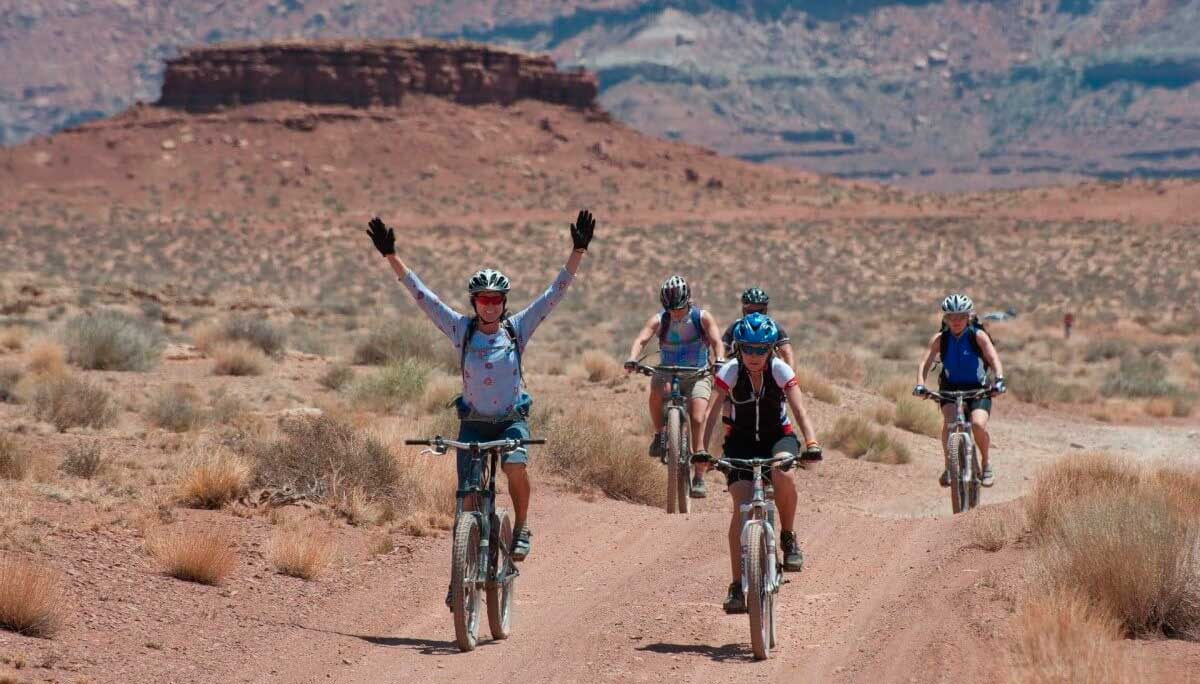
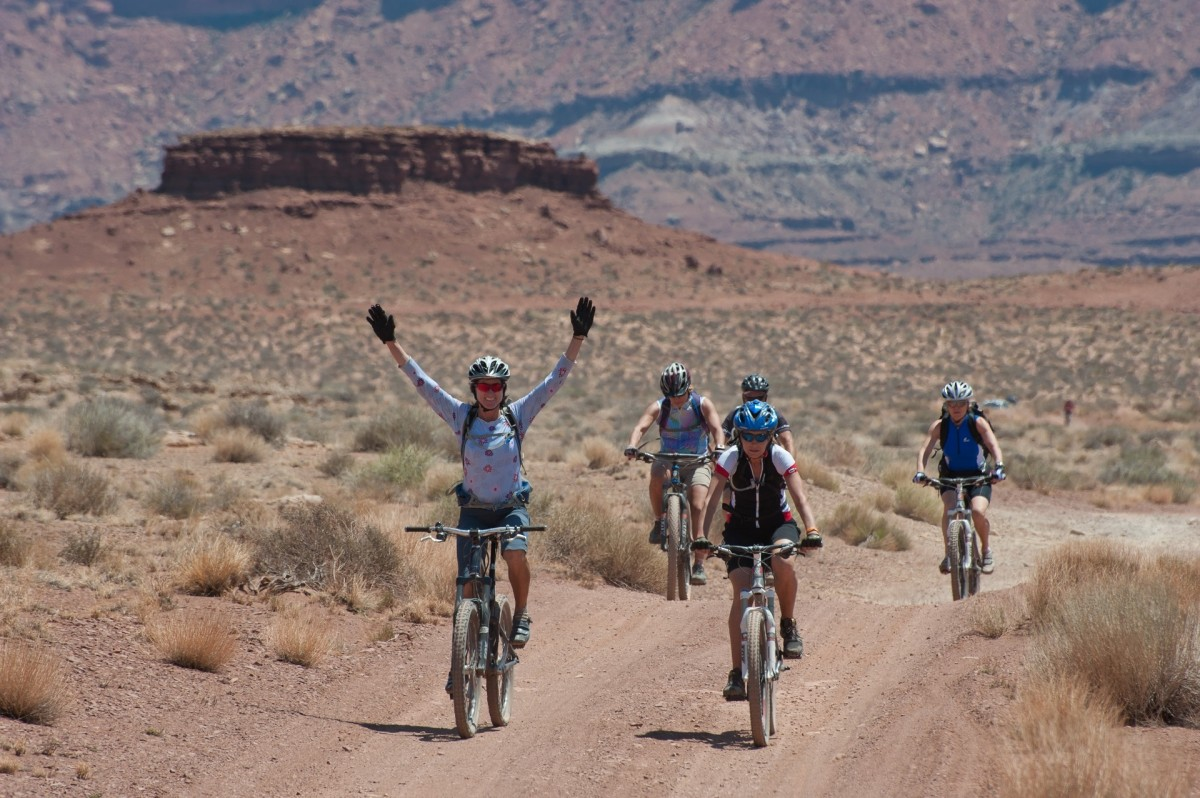
New Bacground

diff --git a/assignments/mountain-spoke/css/style.css b/assignments/mountain-spoke/css/style.css
@@ -50,7 +50,7 @@ a:hover, a:focus {
 
 .parallax {
     /* The image used */
-    background-image: url("../img/5.jpg");
+    background-image: url("../img/adventure-background.jpg");
 
     /* Set a specific height */
     min-height: 500px; 
